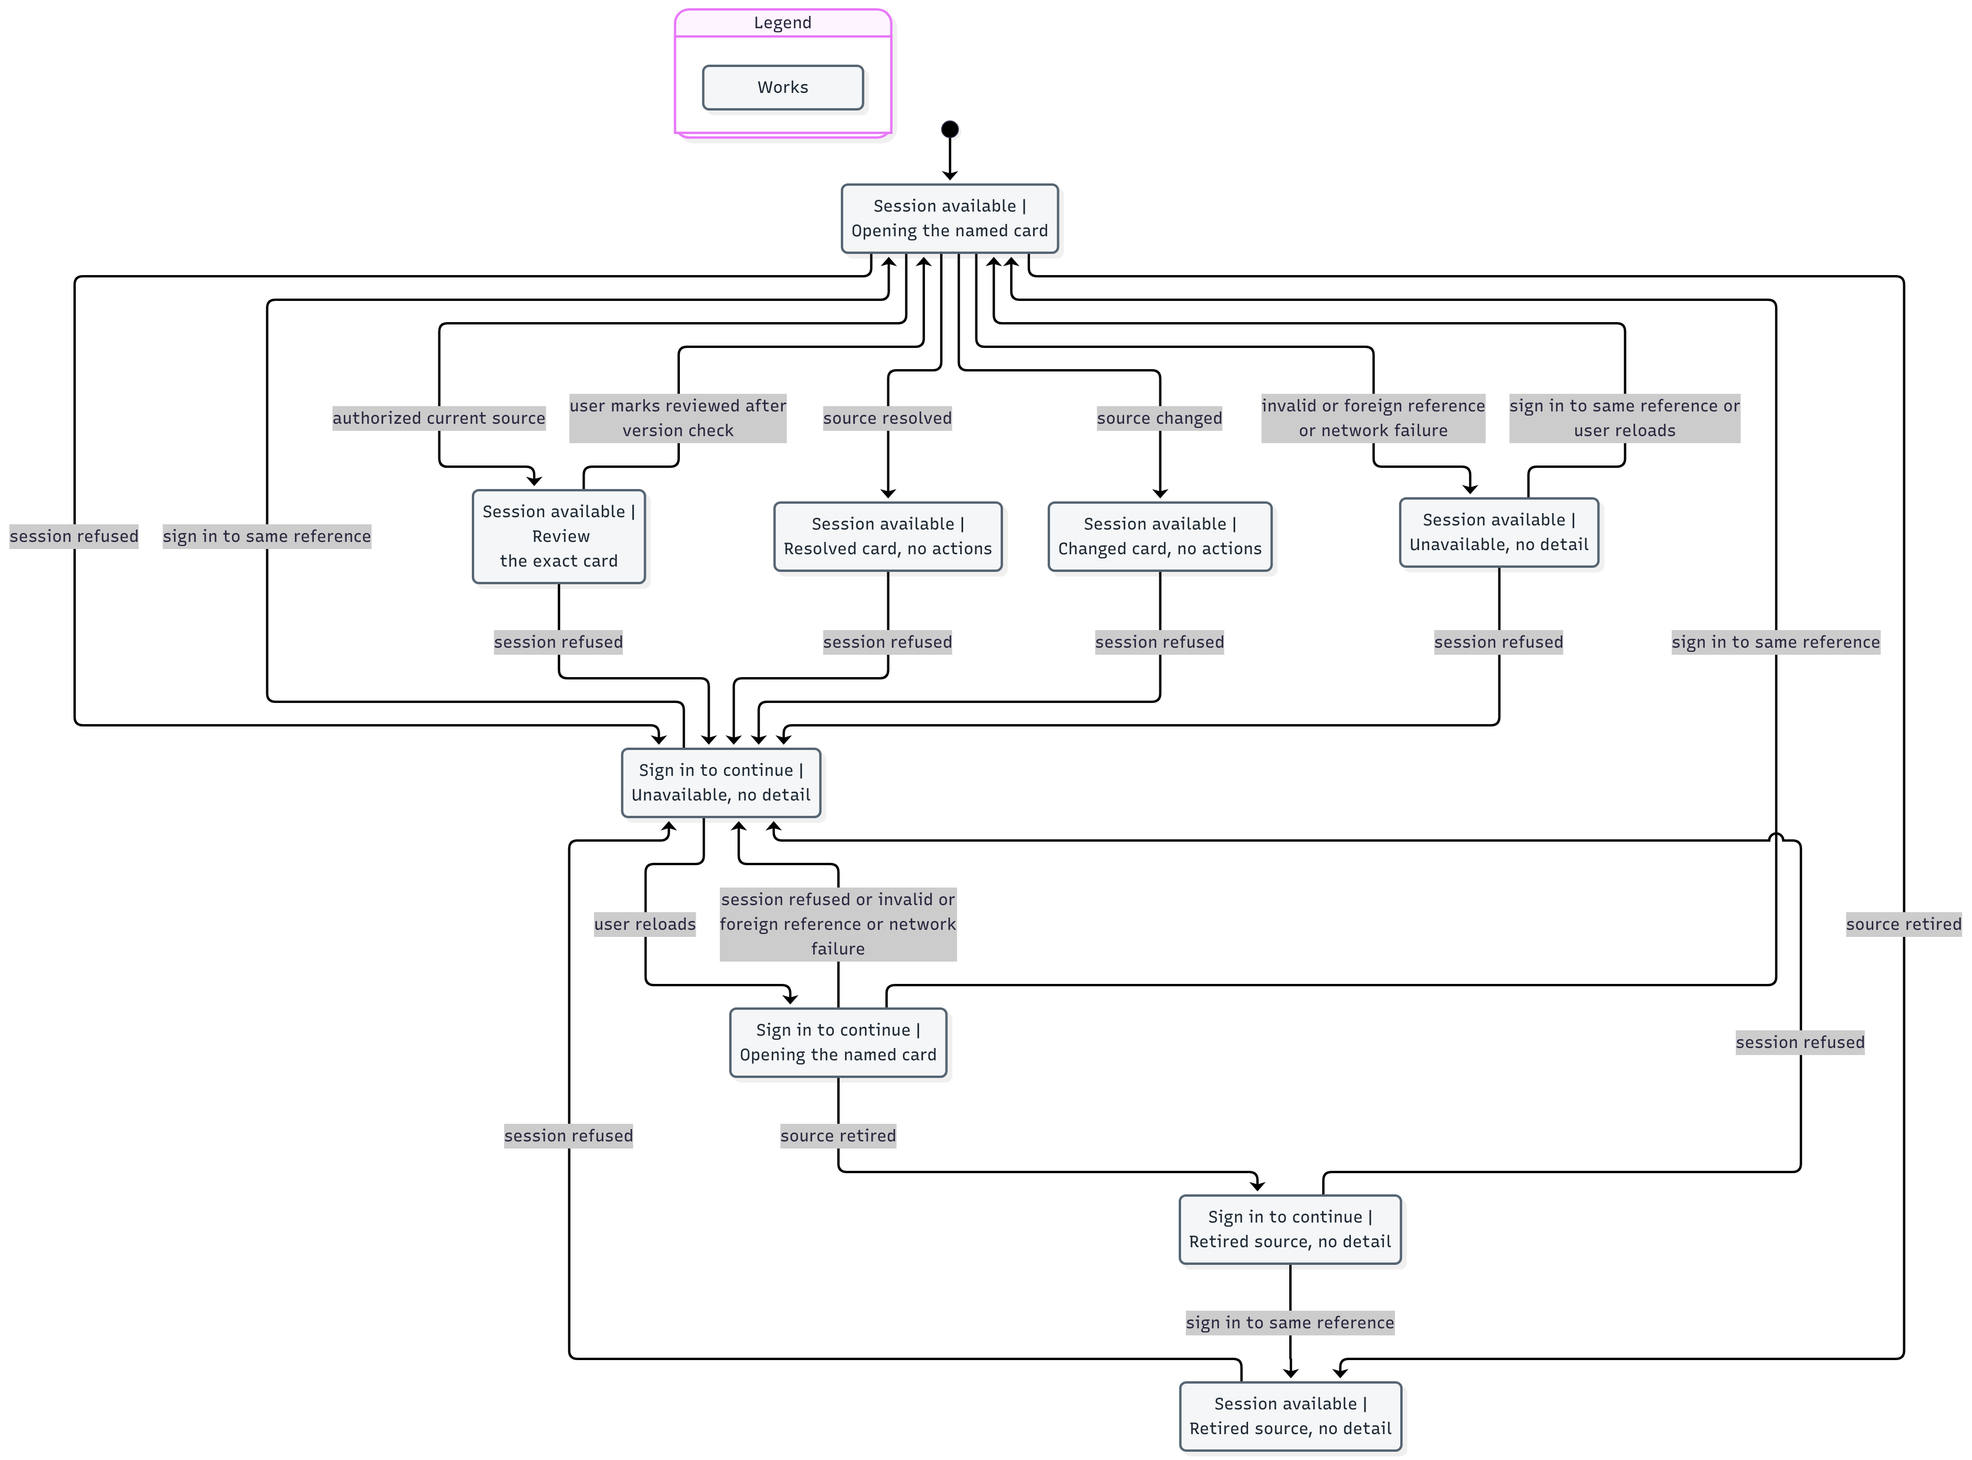
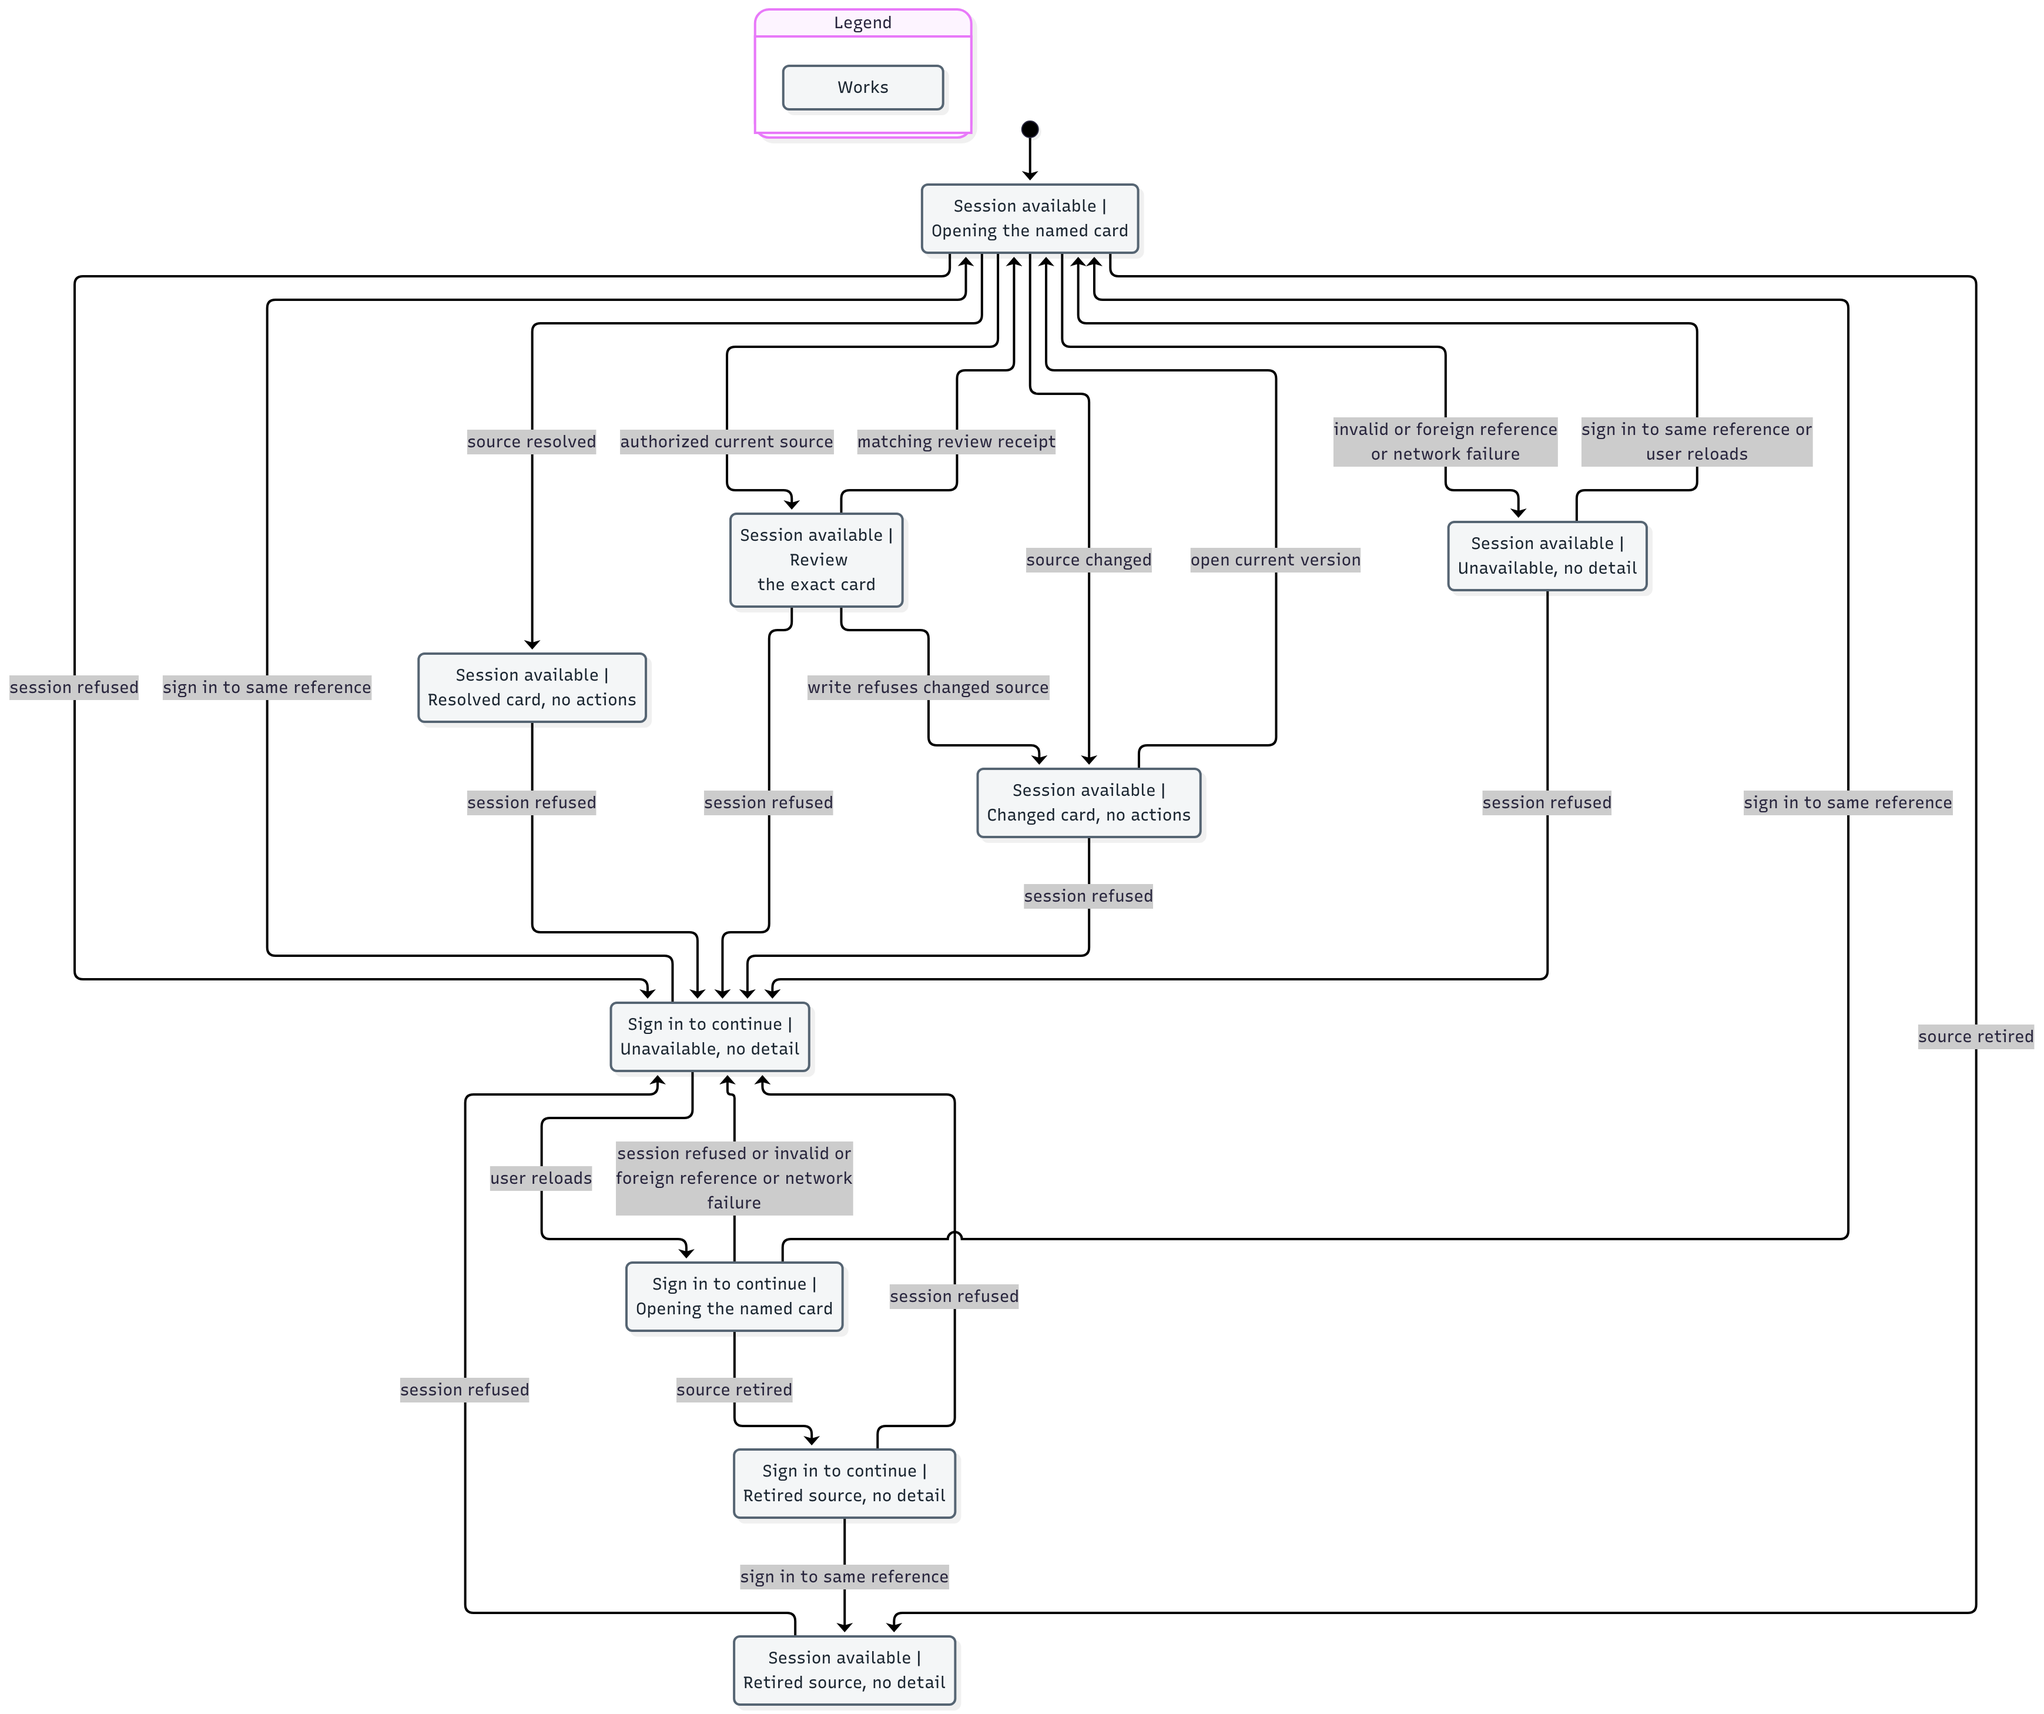
fix: bind exact call reviews to the displayed source version
Pin the producer guard from carr 3091. Remove the preflight read and
reopen the current card after a transactional stale-version refusal.
Cover matching writes, refused edits and intent replay through the MCP parser.

Card: WR617.S1.J197

diff --git a/test/exact-action-cards.browser.ts b/test/exact-action-cards.browser.ts
@@ -28,6 +28,9 @@ const commit = "1".repeat(40),
 const writeInput = new Ajv().compile(
   JSON.parse(await readFile("test/fixtures/review-call-outcome.input.json", "utf8")),
 );
+const reviewContract = JSON.parse(await readFile("contracts/carr-interface.v1/review-call-outcome.v1.json", "utf8"));
+const writeResponse = new Ajv().compile(reviewContract.responseSchema);
+const writeRefusal = new Ajv().compile(reviewContract.refusalSchema);
 const cardContract = new Ajv({ strict: false, validateFormats: false }).compile(
   JSON.parse(await readFile("contracts/carr-interface.v1/action-link-resolve.v2.json", "utf8")),
 );
@@ -255,6 +258,7 @@ test("post-call review uses registered input and receipt and retains its intent 
       if (rpc.params.name === "review-call-outcome") {
         assert.ok(writeInput(rpc.params.arguments), JSON.stringify(writeInput.errors));
         assert.equal(rpc.params.arguments.session_id, call.card.id);
+        assert.equal(rpc.params.arguments.expected_source_version, "4392d9ee99a3e7940999c568bd4c7b61");
         assert.match(rpc.params.arguments.idempotency_key, /^[0-9a-f-]{36}$/);
         keys.push(rpc.params.arguments.idempotency_key);
         if (keys.length === 1) {
@@ -262,12 +266,14 @@ test("post-call review uses registered input and receipt and retains its intent 
           return;
         }
         reviewed = true;
+        const reviewReceipt = { ok: true, session_id: call.card.id, reviewed: true, replayed: true };
+        assert.ok(writeResponse(reviewReceipt), JSON.stringify(writeResponse.errors));
         await route.fulfill({
           json: {
             jsonrpc: "2.0",
             id: rpc.id,
             result: {
-              content: [{ type: "text", text: JSON.stringify({ ok: true, session_id: call.card.id, reviewed: true }) }],
+              content: [{ type: "text", text: JSON.stringify(reviewReceipt) }],
             },
           },
         });
@@ -407,8 +413,86 @@ for (const receipt of [
       await page.goto(`${server.origin}/a/${call.ref}?mode=live`);
       await page.getByRole("button", { name: "Mark call reviewed", exact: true }).click();
       await page.getByText("Review was not confirmed. Reload before trying again.", { exact: true }).waitFor();
-      assert.equal(reads, 2);
+      assert.equal(reads, 1);
       assert.equal(await page.getByText("Resolved", { exact: true }).count(), 0);
+    } finally {
+      await browser.close();
+      await server.close();
+    }
+  });
+
+for (const changed of [false, true])
+  test(`atomic review ${changed ? "refuses an edit between display and write and reopens current version" : "accepts matching displayed version"}`, async () => {
+    const server = await fixture(),
+      browser = await chromium.launch({ headless: true, args: [...CHROMIUM_SAFETY_ARGS] });
+    try {
+      const page = await browser.newPage();
+      let reads = 0,
+        writes = 0,
+        canonicalVersion = "4392d9ee99a3e7940999c568bd4c7b61";
+      const currentRef = `al1_${Buffer.from(`cr:${call.card.id}:changed2`).toString("base64url")}`;
+      await page.route("**/mcp", async (route) => {
+        const rpc = route.request().postDataJSON();
+        if (!["review-call-outcome", "resolve-action-link-v2"].includes(rpc.params.name)) return route.fallback();
+        let payload: unknown;
+        if (rpc.params.name === "review-call-outcome") {
+          writes++;
+          if (changed) canonicalVersion = "changed2";
+          assert.equal(reads, 1, "no separate preflight read");
+          assert.ok(writeInput(rpc.params.arguments), JSON.stringify(writeInput.errors));
+          assert.equal(rpc.params.arguments.expected_source_version, "4392d9ee99a3e7940999c568bd4c7b61");
+          assert.equal(rpc.params.arguments.expected_source_version !== canonicalVersion, changed);
+          payload = changed
+            ? {
+                error: "source_version_changed",
+                correlation_id: "20000000-0000-4000-8000-000000000999",
+                hint: reviewContract.refusal.hint,
+              }
+            : { ok: true, session_id: call.card.id, reviewed: true };
+          const validate = changed ? writeRefusal : writeResponse;
+          assert.ok(validate(payload), JSON.stringify(validate.errors));
+        } else {
+          reads++;
+          payload =
+            writes === 0
+              ? call
+              : changed
+                ? {
+                    ...call,
+                    ref: rpc.params.arguments.ref,
+                    card: {
+                      ...call.card,
+                      source_version: "changed2",
+                      state: rpc.params.arguments.ref === currentRef ? "pending_review" : "stale",
+                      actions: rpc.params.arguments.ref === currentRef ? call.card.actions : [],
+                    },
+                  }
+                : { ...call, card: { ...call.card, state: "resolved", actions: [] } };
+          assert.ok(cardContract(payload), JSON.stringify(cardContract.errors));
+        }
+        await route.fulfill({
+          json: {
+            jsonrpc: "2.0",
+            id: rpc.id,
+            result: {
+              isError: changed && rpc.params.name === "review-call-outcome",
+              content: [{ type: "text", text: JSON.stringify(payload) }],
+            },
+          },
+        });
+      });
+      await page.goto(`${server.origin}/a/${call.ref}?mode=live`);
+      await page.getByRole("button", { name: "Mark call reviewed", exact: true }).waitFor();
+      await page.getByRole("button", { name: "Mark call reviewed", exact: true }).click();
+      if (changed) {
+        await page.getByText("This card changed. Open its current version before acting.", { exact: true }).waitFor();
+        assert.equal(await page.getByRole("button", { name: "Mark call reviewed", exact: true }).count(), 0);
+        await page.getByRole("button", { name: "Open current version", exact: true }).click();
+        await page.waitForURL(`**/a/${currentRef}*`);
+        await page.getByRole("button", { name: "Mark call reviewed", exact: true }).waitFor();
+        assert.equal(await page.locator("[data-source-version]").getAttribute("data-source-version"), "changed2");
+      } else await page.getByText("Resolved", { exact: true }).waitFor();
+      assert.equal(writes, 1);
     } finally {
       await browser.close();
       await server.close();

diff --git a/src/ui/action-link.tsx b/src/ui/action-link.tsx
@@ -293,31 +293,24 @@ function ActionLink({ ref, request }: { ref: string; request: Request }) {
     busy.current = true;
     const card = state.card,
       signal = lifetime.current.signal;
-    setReviewNotice("Checking current review…");
+    setReviewNotice("Saving review…");
     try {
-      const current = await request("resolve-action-link-v2", { ref }, { signal, timeoutMs: 10_000 });
-      if (signal.aborted) return;
-      if (object(current) && current.kind === "authorization") {
-        setState({ kind: "signed-out" });
-        return;
-      }
-      const fresh = object(current) && current.kind === "payload" ? parseExactCard(current.payload, ref) : null;
-      if (
-        fresh?.kind !== "post_call_review" ||
-        fresh.state !== "pending_review" ||
-        fresh.source_version !== card.source_version
-      ) {
-        setReload((value) => value + 1);
-        return;
-      }
       const result = await request(
         "review-call-outcome",
-        { session_id: card.id, idempotency_key: state.reviewKey },
+        { session_id: card.id, expected_source_version: card.source_version, idempotency_key: state.reviewKey },
         { signal, timeoutMs: 10_000 },
       );
       if (signal.aborted) return;
       if (object(result) && result.kind === "authorization") setState({ kind: "signed-out" });
       else if (
+        object(result) &&
+        result.kind === "payload" &&
+        object(result.payload) &&
+        result.payload.error === "source_version_changed"
+      ) {
+        setReviewNotice("");
+        setState({ kind: "exact", card: { ...card, state: "stale", detail: null } });
+      } else if (
         object(result) &&
         result.kind === "payload" &&
         !result.isError &&
@@ -332,6 +325,36 @@ function ActionLink({ ref, request }: { ref: string; request: Request }) {
       } else setReviewNotice("Review was not confirmed. Reload before trying again.");
     } catch {
       if (!signal.aborted) setReviewNotice("Review was not confirmed. Reload before trying again.");
+    } finally {
+      busy.current = false;
+    }
+  };
+  const reopenCall = async () => {
+    if (
+      state.kind !== "exact" ||
+      state.card.kind !== "post_call_review" ||
+      state.card.state !== "stale" ||
+      busy.current ||
+      !lifetime.current
+    )
+      return;
+    busy.current = true;
+    const signal = lifetime.current.signal;
+    try {
+      const result = await request("resolve-action-link-v2", { ref }, { signal, timeoutMs: 10_000 });
+      if (signal.aborted) return;
+      if (object(result) && result.kind === "authorization") {
+        setState({ kind: "signed-out" });
+        return;
+      }
+      const card =
+        object(result) && result.kind === "payload" && !result.isError ? parseExactCard(result.payload, ref) : null;
+      if (card?.kind === "post_call_review" && /^[A-Za-z0-9_-]{1,32}$/.test(card.source_version)) {
+        const currentRef = `al1_${btoa(`cr:${card.id}:${card.source_version}`).replaceAll("+", "-").replaceAll("/", "_").replaceAll("=", "")}`;
+        location.assign(`/a/${currentRef}${location.search}`);
+      } else setReviewNotice("The current card could not be opened. Try again.");
+    } catch {
+      if (!signal.aborted) setReviewNotice("The current card could not be opened. Try again.");
     } finally {
       busy.current = false;
     }
@@ -448,6 +471,11 @@ function ActionLink({ ref, request }: { ref: string; request: Request }) {
             {state.card.kind === "post_call_review" && state.card.state === "pending_review" && (
               <button type="button" className="btn" onClick={() => void reviewCall()}>
                 Mark call reviewed
+              </button>
+            )}
+            {state.card.kind === "post_call_review" && state.card.state === "stale" && (
+              <button type="button" className="btn" onClick={() => void reopenCall()}>
+                Open current version
               </button>
             )}
             {reviewNotice && <p role="status">{reviewNotice}</p>}

diff --git a/test/exact-action-card.test.ts b/test/exact-action-card.test.ts
@@ -1,4 +1,5 @@
 import assert from "node:assert/strict";
+import { createHash } from "node:crypto";
 import { readFile } from "node:fs/promises";
 import test from "node:test";
 import { parseExactCard } from "../src/ui/exact-action-card.ts";
@@ -48,3 +49,17 @@ for (const [index, value] of fixtures.entries())
     assert.equal(parseExactCard(value, `${value.ref}A`), null);
     assert.equal(parseExactCard({ ...value, card: { ...card, id: `${card.id.slice(0, -1)}f` } }, value.ref), null);
   });
+
+test("exact review contracts retain the pinned producer bytes", async () => {
+  for (const [name, digest] of [
[2 lines of base64/hex data omitted]
+  ]) {
+    assert.equal(
+      createHash("sha256")
+        .update(await readFile(`contracts/carr-interface.v1/${name}`))
+        .digest("hex"),
+      digest,
+    );
+  }
+});

diff --git a/docs/statecharts/exact-action-cards/README.md b/docs/statecharts/exact-action-cards/README.md
@@ -2,7 +2,7 @@
 
 Direct action links read their canonical sources without searching Home. Lead drafts retain v1. Reply drafts, post-call reviews and feedback events use `resolve-action-link-v2`.
 
[2 lines of base64/hex data omitted]
 
 Every arrow is exercised through a mounted browser view. The initial arrows are covered by cold navigation. Session arrows and card arrows share their user trigger in the two independent regions.
 
@@ -28,11 +28,14 @@ Every arrow is exercised through a mounted browser view. The initial arrows are 
 | Unavailable to Unavailable on session refused | `mounted unavailable card clears on session refusal` |
 | Unavailable to Opening on user reloads | `reply transport reload is manual and fresh resolve replaces prior data` in action-link-browser |
 | Unavailable to Opening on sign in to same reference | Sign-in browser test follows the login link and returns to the exact card |
-| Review to Opening on user marks reviewed after version check | `post-call review uses registered input and receipt and retains its intent key after a lost response and reload` |
+| Review to Opening on matching review receipt | `post-call review uses registered input and receipt and retains its intent key after a lost response and reload` |
 
-The model abstracts network timing, server transactions and the existing reply approval machine. It does not prove transactional concurrency. The existing preflight read is a separate request and is **not version enforcement**. The transactional producer change is tracked in WR617.S1.J184; until it is pinned, concurrent edits remain an open review finding. Feedback has no mutation.
+| Review to Stale on write refuses changed source | `atomic review refuses an edit between display and write and reopens current version` |
+| Stale to Opening on open current version | The same atomic-refusal browser test resolves the latest version, follows its reference and renders the new review |
 
-The registered write input fixture is extracted from `mcp-server/src/tools.js` at the same pinned CARR revision. The browser validates every completion command against that input, uses the handler's `{ok:true, session_id, reviewed:true}` receipt, and tests missing identity, wrong identity and error receipts. Pending review intent keys persist in session storage across manual reload and lost responses; only a matching success receipt clears the key. The fixture with nonempty candidates passed the exact parser function extracted from `mcp-server/src/action-card-targets.ts` at that revision.
+The model abstracts network timing, server transactions and the existing reply approval machine. It does not prove database concurrency. CARR owns the atomic version guard; the app sends the displayed version in the write without a preflight read. Feedback has no mutation. The atomic-refusal fixture models a canonical candidate edit after display and before the write. The producer refusal passes its pinned refusal schema and the production MCP parser before the UI enters stale. Matching-version receipt and replay follow the pinned response schema. The existing invalid-receipt cases intentionally violate it and remain unconfirmed.
+
+Pending review intent keys persist in session storage across reload and lost responses; only a matching success receipt clears the key. A newly opened version has a distinct reference and intent. The shared legacy Home caller remains unchanged.
 
 ## PRODUCTION PROOF
 
